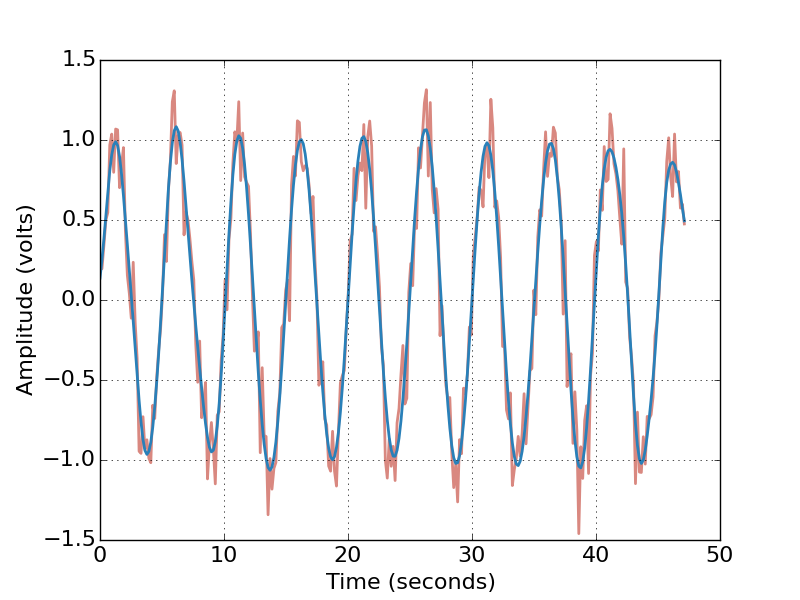
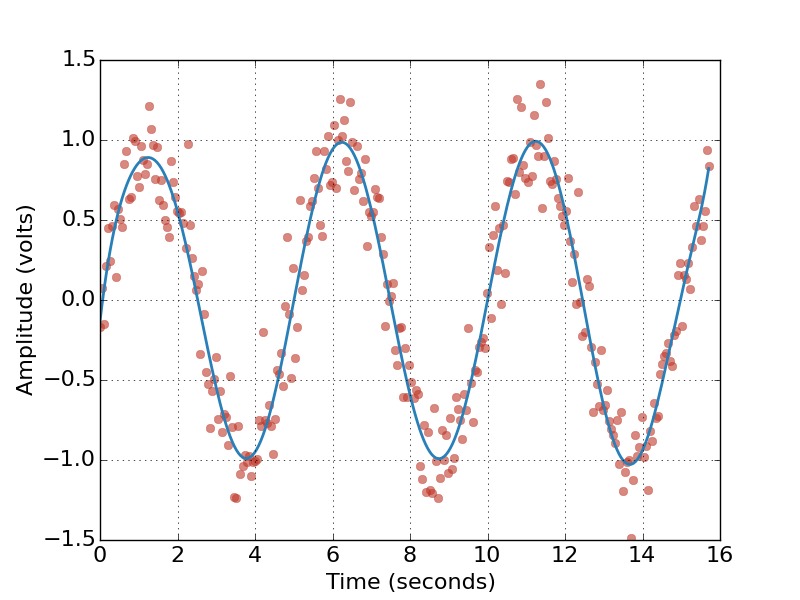
Reformatted plots.

diff --git a/scripts/fit_examples.py b/scripts/fit_examples.py
@@ -9,12 +9,13 @@ if __name__ == '__main__':
     setup_plotting()
 
     # Create some noisy data.
-    t = np.linspace(0,15*np.pi, 300)
+    t = np.linspace(0,5*np.pi, 300)
     y = np.sin(2*np.pi/5*t) + 0.2 * np.random.randn(len(t))
-    f = Fit(t,y, 55, reg_coefs=[0,1e-3,1e-4])
+    f = Fit(t,y, 15, reg_coefs=[0,1e-3,1e-4])
 
     figure(100)
-    plot(t, y, color=pomegranate, linewidth=2, alpha=0.6)
+    plot(t, y, 'o', markerfacecolor=pomegranate, markeredgecolor=pomegranate,\
+         alpha=0.6)
     grid(True)
     xlabel('Time (seconds)')
     ylabel('Amplitude (volts)')
@@ -22,7 +23,8 @@ if __name__ == '__main__':
 
     
     figure(200)
-    plot(t, y, color=pomegranate, linewidth=2, alpha=0.6)
+    plot(t, y, 'o', markerfacecolor=pomegranate, markeredgecolor=pomegranate,\
+         alpha=0.6)
     hold(True)
     plot(f.results.x, f.results.y, color=belize_hole, linewidth=2)
     grid(True)

diff --git a/mathtools/vanity.py b/mathtools/vanity.py
@@ -1,4 +1,7 @@
-'''Let's try to make plots look nice, shall we?'''
+'''Let's try to make plots look nice, shall we?
+To preview the colors defined below, check out:
+    http://flatuicolors.com/
+'''
 from pylab import *
 
 
@@ -34,6 +37,7 @@ def setup_plotting():
     # Turn on interactive plotting.
     ion()
     close('all')
+
     # Set font to something reasonable.
-    font = {'family': 'Helvetica', 'weight': 'light', 'size': 16}
+    font = {'family': 'Arial', 'weight': 'light', 'size': 16}
     matplotlib.rc('font', **font)
